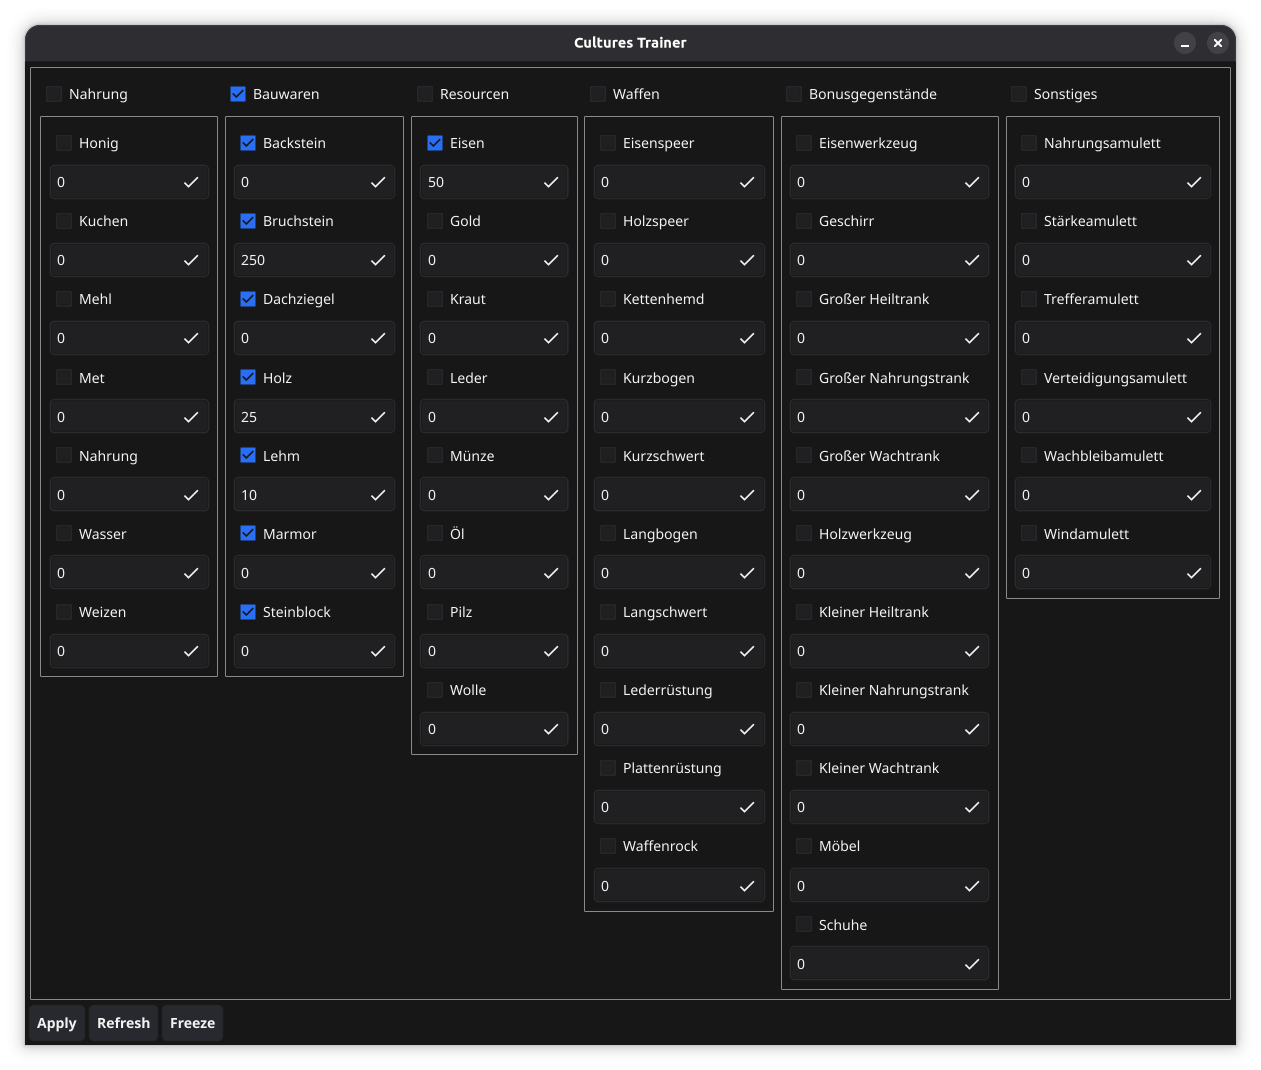
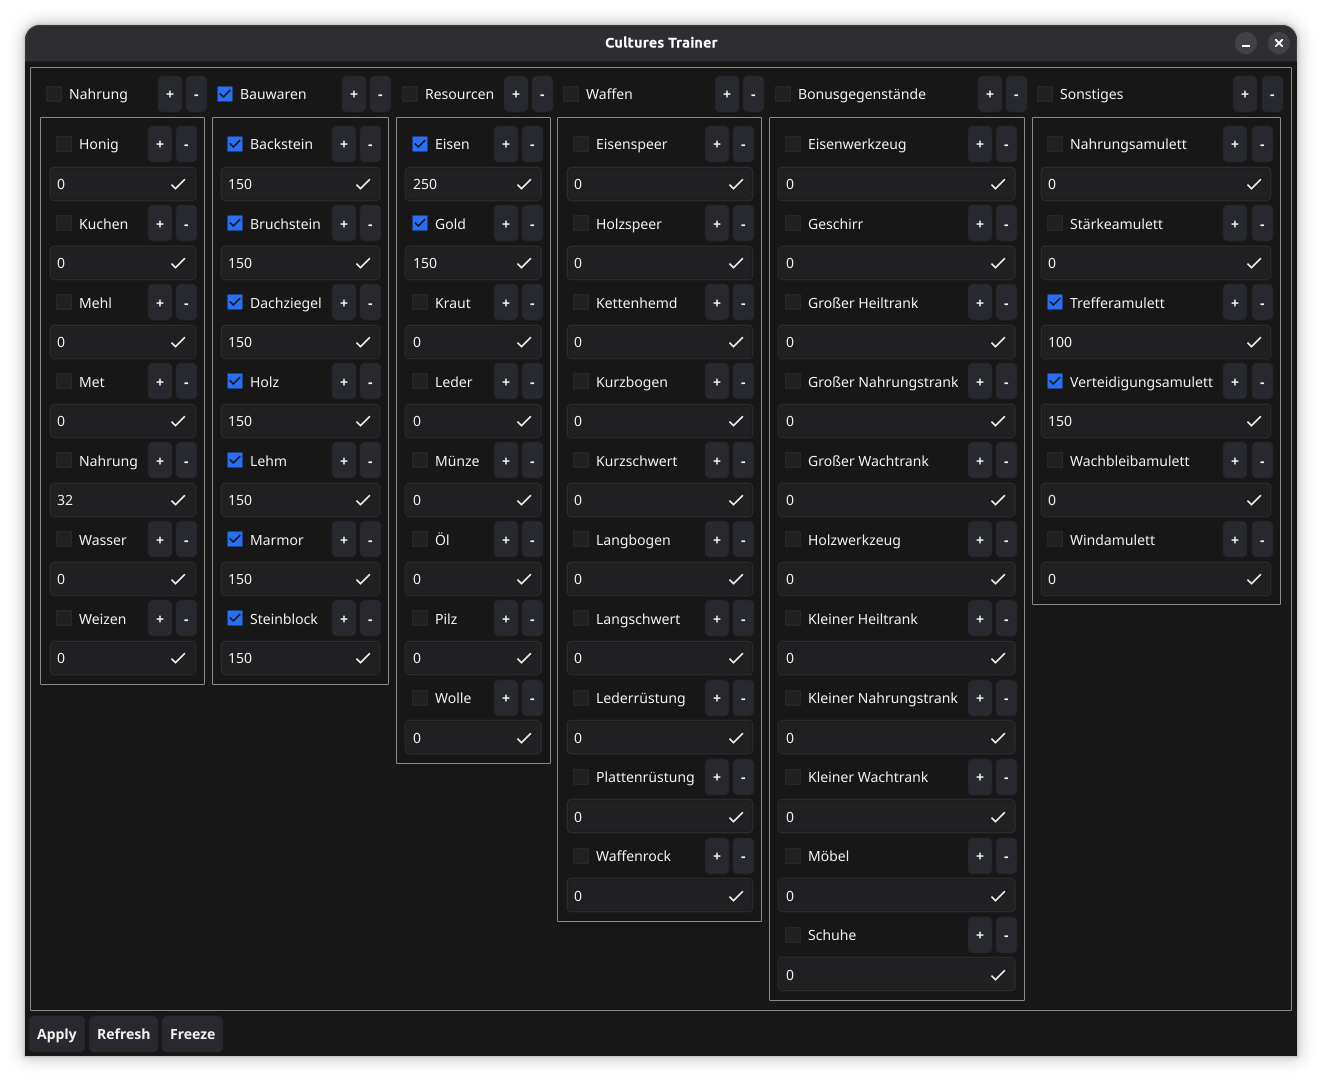
Add button to increase/decrease resource amount
Allow user to quickly increase/decrease the resource amount for single
resources or whole categories using a button.

diff --git a/pkg/app/widgets_test.go b/pkg/app/widgets_test.go
@@ -2,7 +2,6 @@ package app
 
 import (
 	"fmt"
-	"strings"
 	"testing"
 
 	"github.com/stretchr/testify/assert"
@@ -18,10 +17,14 @@ func TestInt32Entry(t *testing.T) {
 		require.NotNil(entry, "Should return a new Int32Entry")
 		require.NotNil(entry.Entry, "Entry widget should not be nil")
 		require.NotNil(entry.Checkbox, "Checkbox widget should not be nil")
+		require.NotNil(entry.increaseButton, "Increase button should not be nil")
+		require.NotNil(entry.decreaseButton, "Decrease button should not be nil")
 		assert.NotNil(entry.canvas, "Should have a canvas object")
 
 		assert.Equal(fmt.Sprintf("%d", entry.value), entry.Entry.Text, "Internal value should match text of entry")
-		assert.Equal("Test Label", strings.TrimSpace(entry.Checkbox.Text), "Checkbox should have correct label")
+		assert.Equal("Test Label", entry.Checkbox.Text, "Checkbox should have correct label")
+		assert.NotNil(entry.increaseButton.OnTapped, "Increase button function should be set")
+		assert.NotNil(entry.decreaseButton.OnTapped, "Decrease button function should be set")
 	})
 	t.Run("Set", func(t *testing.T) {
 		assert := assert.New(t)
@@ -67,5 +70,43 @@ func TestInt32Entry(t *testing.T) {
 
 		entry.Entry.SetText("")
 		assert.Equal(int32(0), entry.value, "Internal value should be zero when entry is cleared")
+	})
+	t.Run("Increase", func(t *testing.T) {
+		assert := assert.New(t)
+
+		entry := NewInt32Entry("Test Label")
+
+		entry.Set(0)
+		entry.Increase()
+		assert.Equal(increaseDecreaseStepSize, entry.Get(), "Value should increase by step size")
+		entry.Increase()
+		assert.Equal(2*increaseDecreaseStepSize, entry.Get(), "Value should increase by step size")
+
+		entry.Set(maxResourceValue - 1)
+		entry.Increase()
+		assert.Equal(maxResourceValue, entry.Get(), "Value should not increase beyond maxResourceValue")
+
+		entry.Set(5)
+		entry.Increase()
+		assert.Equal(increaseDecreaseStepSize, entry.Get(), "Value should increase to nearest multiple of step size")
+	})
+	t.Run("Decrease", func(t *testing.T) {
+		assert := assert.New(t)
+
+		entry := NewInt32Entry("Test Label")
+
+		entry.Set(3 * increaseDecreaseStepSize)
+		entry.Decrease()
+		assert.Equal(2*increaseDecreaseStepSize, entry.Get(), "Value should decrease by step size")
+		entry.Decrease()
+		assert.Equal(increaseDecreaseStepSize, entry.Get(), "Value should decrease by step size")
+
+		entry.Set(1)
+		entry.Decrease()
+		assert.Equal(int32(0), entry.Get(), "Value should not decrease beyond 0")
+
+		entry.Set(increaseDecreaseStepSize + 1)
+		entry.Decrease()
+		assert.Equal(increaseDecreaseStepSize, entry.Get(), "Value should decrease to nearest multiple of step size")
 	})
 }

diff --git a/pkg/app/widgets.go b/pkg/app/widgets.go
@@ -7,15 +7,23 @@ import (
 
 	"fyne.io/fyne/v2"
 	"fyne.io/fyne/v2/container"
+	"fyne.io/fyne/v2/layout"
 	"fyne.io/fyne/v2/widget"
+)
+
+const (
+	increaseDecreaseStepSize int32 = 50
+	maxResourceValue         int32 = 500
 )
 
 type Int32Entry struct {
 	widget.BaseWidget
 
-	Entry    *widget.Entry
-	Checkbox *widget.Check
-	canvas   fyne.CanvasObject
+	Entry          *widget.Entry
+	Checkbox       *widget.Check
+	increaseButton *widget.Button
+	decreaseButton *widget.Button
+	canvas         fyne.CanvasObject
 
 	value int32
 }
@@ -23,12 +31,16 @@ type Int32Entry struct {
 // Create a new entry widget for int32 values with an associated checkbox.
 func NewInt32Entry(label string) *Int32Entry {
 	entry := widget.NewEntry()
-	checkbox := widget.NewCheck(minimumLengthString(label, minResourceLabelLength), nil)
+	checkbox := widget.NewCheck(label, nil)
+	increaseButton := widget.NewButton("+", nil)
+	decreaseButton := widget.NewButton("-", nil)
 
 	e := &Int32Entry{
-		Entry:    entry,
-		Checkbox: checkbox,
-		canvas:   container.NewVBox(checkbox, entry),
+		Entry:          entry,
+		Checkbox:       checkbox,
+		increaseButton: increaseButton,
+		decreaseButton: decreaseButton,
+		canvas:         container.NewVBox(container.NewHBox(checkbox, layout.NewSpacer(), increaseButton, decreaseButton), entry),
 	}
 
 	e.Entry.Validator = func(s string) error {
@@ -49,6 +61,9 @@ func NewInt32Entry(label string) *Int32Entry {
 	}
 	e.Set(0)
 
+	e.increaseButton.OnTapped = e.Increase
+	e.decreaseButton.OnTapped = e.Decrease
+
 	e.ExtendBaseWidget(e)
 	return e
 }
@@ -66,4 +81,32 @@ func (e *Int32Entry) Set(v int32) {
 // Get the int32 value of the entry.
 func (e *Int32Entry) Get() int32 {
 	return e.value
+}
+
+// Increase the value by a set amount up to the defined maximum.
+// First call will increase it up to the nearest multiple of the step size.
+func (e *Int32Entry) Increase() {
+	v := e.Get() + increaseDecreaseStepSize
+	m := v % increaseDecreaseStepSize
+	v -= m
+	if v > maxResourceValue {
+		v = maxResourceValue
+	}
+	e.Set(v)
+}
+
+// Decrease the value by a set amount up to 0.
+// First call will decrease it down to the nearest multiple of the step size.
+func (e *Int32Entry) Decrease() {
+	v := e.Get()
+	m := v % increaseDecreaseStepSize
+	if m == 0 {
+		v -= increaseDecreaseStepSize
+	} else {
+		v -= m
+	}
+	if v < 0 {
+		v = 0
+	}
+	e.Set(v)
 }

diff --git a/pkg/app/app.go b/pkg/app/app.go
@@ -7,11 +7,10 @@ import (
 	fApp "fyne.io/fyne/v2/app"
 	"fyne.io/fyne/v2/container"
 	"fyne.io/fyne/v2/dialog"
+	"fyne.io/fyne/v2/layout"
 	"fyne.io/fyne/v2/widget"
 	"github.com/heathcliff26/cultures-trainer/pkg/trainer"
 )
-
-const minResourceLabelLength = 25
 
 const (
 	freezeButtonTextFreeze   = "Freeze"
@@ -75,6 +74,7 @@ func (a *App) initContent() {
 
 	storageAddressTypeSelect := widget.NewSelect(trainer.StorageLocations, func(s string) {
 		offset := trainer.StorageIndexes[s]
+		// #nosec G115 -- The indexes are guaranteed to be positive.
 		a.storageAddressOffset = uint64(offset)
 	})
 	storageAddressTypeSelect.SetSelectedIndex(7)
@@ -130,12 +130,24 @@ func (a *App) initStorageCategory(name string, items []string) fyne.CanvasObject
 			a.resourceEntries[index].Checkbox.SetChecked(b)
 		}
 	})
+	categoryIncreaseButton := widget.NewButton("+", func() {
+		for _, item := range items {
+			index := trainer.StorageIndexes[item]
+			a.resourceEntries[index].Increase()
+		}
+	})
+	categoryDecreaseButton := widget.NewButton("-", func() {
+		for _, item := range items {
+			index := trainer.StorageIndexes[item]
+			a.resourceEntries[index].Decrease()
+		}
+	})
 	for i, item := range items {
 		index := trainer.StorageIndexes[item]
 		a.resourceEntries[index] = NewInt32Entry(item)
 		obj[i] = a.resourceEntries[index]
 	}
-	return container.NewVBox(categoryCheckbox, newBorder(container.NewVBox(obj...)))
+	return container.NewVBox(container.NewHBox(categoryCheckbox, layout.NewSpacer(), categoryIncreaseButton, categoryDecreaseButton), newBorder(container.NewVBox(obj...)))
 }
 
 func (a *App) refreshStorageValues() {
